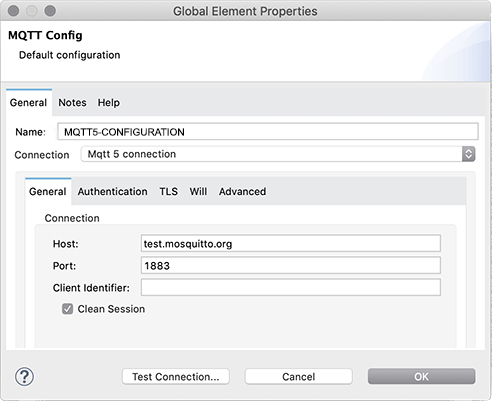
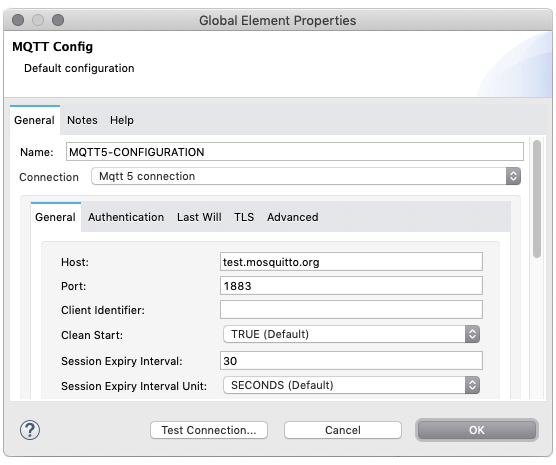
update images and doc for new apis

diff --git a/docs/connection/general.md b/docs/connection/general.md
@@ -20,7 +20,7 @@ MQTT 5
   
   Studio
   ===
-![mqtt5-connection]({{ site.baseurl }}/images/3-connection-mqtt5.png)
+![mqtt5-connection]({{ site.baseurl }}/images/mqtt5-connection.png)
   ====
 
   Code
@@ -28,8 +28,8 @@ MQTT 5
 
 ```xml
 <mqtt:config name="MQTT5">
-  <mqtt:mqtt5-connection host="test.mosquitto.org" port="1883" 
-                         clientId="TestIdentifier" cleanSession="true"/>
+  <mqtt:mqtt5-connection host="test.mosquitto.org" port="1883" clientId="TestIdentifier"
+                         cleanStart="TRUE" sessionExpiryInterval="60"/>
 </mqtt:config>
 ```
 
@@ -45,7 +45,7 @@ MQTT 3
   
   Studio
   ===
-![mqtt3-connection]({{ site.baseurl }}/images/3-connection-mqtt3.png)
+![mqtt3-connection]({{ site.baseurl }}/images/mqtt3-connection.png)
   ====
 
   Code
@@ -54,29 +54,82 @@ MQTT 3
 ```xml
 <mqtt:config name="MQTT3">
   <mqtt:mqtt3-connection host="test.mosquitto.org" port="1883" 
-                         clientId="TestIdentifier" cleanSession="true"/>
+                         clientId="TestIdentifier" cleanSession="TRUE"/>
 </mqtt:config>
 ```
 
   {% endcapture %}
   {% include tabs.html tab_group="module" %}
 
-
 {% endcapture %}
 {% include tabs.html tab_group="mqtt-version" %}
 
 ---
 
-The properties described in this section can be seen in the following table:
+## Host
 
-| Property | Description | Default value | Expression |
-| ----------- | ----------- | ------------- | ------- |
-| `host` | The host name or IP address of the MQTT server. | - | `not supported` |
-| `port` | The port of the MQTT server. | `1883` | `not supported` |
-| `identifier` | The unique identifier of the MQTT client. | connector generates an identifier | `not supported` |
-| `cleanSession` | Determines if the client wants to start a new “clean” session (true) or wants to resume a previous session if available (false). This is called cleanStart in MQTT5. | `true` | `not supported` |
+The host name or IP address of the MQTT server.
 
-Good Practice
-{: .label }
+| Property | Default value | Expression |
+| ----------- | ------------- | ------- |
+| `host` | - | `not supported` |
 
-For connections with `cleanSession = true` it's a good practice to have a separate configuration for subscribers, will avoid problems with fetching previous session queued messages.
+## Port
+
+The port of the MQTT server.
+
+| Property | Default value | Expression |
+| ----------- | ------------- | ------- |
+| `port` | `1883` | `not supported` |
+
+## Identifier
+
+The unique identifier of the MQTT client.
+
+| Property | Default value | Expression |
+| ----------- | ------------- | ------- |
+| `identifier` | connector generates an identifier | `not supported` |
+
+
+{% capture tab_content %}
+
+MQTT 5.0
+===
+
+## Clean Start
+
+If `true` and there is a session associated with the configured `clientId`, the server must resume communication with the client based on the state of the session. If there is no session associated with the `clientId`, the server must create a new session. 
+
+If set to `false` a new session is always created.
+
+| Property | Default value | Expression |
+| ----------- | ------------- | ------- |
+| `cleanStart` | `TRUE` | `not supported` |
+
+It's important to note that if the [sessionExpiryInterval](#session-expiry-interval) property is empty or 0, then sessions are n  ot going to be stored for the client.
+{: .fs-2 }
+
+## Session Expiry Interval
+
+ Defines the period of time that the broker stores the session information of that particular MQTT client. When the session expiry interval is set to 0 or empty, the session information is immediately removed from the broker as soon as the network connection of the client closes. The Session Expiry Interval Unit property qualifies the Connect Timeout attribute
+
+| Property | Default value | Expression |
+| ----------- | ------------- | ------- |
+| `sessionExpiryInterval` | `60` | `not supported` |
+| `sessionExpiryIntervalUnit` | `SECONDS` | `not supported` |
+
+====
+
+MQTT 3.1.1
+===
+
+## Clean Session
+
+Determines if the client wants to start a new “clean” session (true) or wants to resume a previous session if available (false).
+
+| Property | Default value | Expression |
+| ----------- | ------------- | ------- |
+| `cleanSession` | `TRUE` | `not supported` |
+
+{% endcapture %}{% include tabs.html tab_group="mqtt-version" tab_no_header=true %}
+

diff --git a/docs/30_connection.md b/docs/30_connection.md
@@ -46,6 +46,3 @@ In the example above, a configuration named `MQTT5-CONFIGURATION` is declared wi
 In the MQTT connector for each configuration declared, a connection is established and cached so that one specific configuration always gets the same connection. The connection is maintained until the configuration itself is stopped.
 
 This means that if you declare a configuration with a connection and it's referenced in two different operations, the **exact same** instance is going to be used to execute both operations. This is important to know for cases when the user **DON'T** want to share the same resource.
-
-It is a good practice to separate subscription configurations from publish configurations, but if required configurations can be shared without a problem in most scenarios. 
-

diff --git a/docs/operations/publish.md b/docs/operations/publish.md
@@ -169,7 +169,7 @@ The properties supported for the publish command are the following:
 
 ### Message Expiry Interval
 
-The message expiry interval is the time interval (in seconds) the message will be queued for subscribers. If no message expiry interval is provided, then is assumed disabled.
+Defines the period of time __(in seconds)__ that the broker stores the PUBLISH message for any matching subscribers that are not currently connected . When no message expiry interval is set, the broker must store the message for matching subscribers indefinitely. When the `retained=true` option is set on the PUBLISH message, this interval also defines how long a message is retained on a topic.
 
 | Property | Default | Type |
 | -------- | ------- | ---- |

diff --git a/docs/10_quickstart.md b/docs/10_quickstart.md
@@ -74,7 +74,7 @@ Code
 <flow name="OnNewMessage">
     <mqtt:listener config-ref="mosquitto-config">
         <mqtt:subscriptions>
-            <mqtt:subscription topic="test/mule/topic"/>
+            <mqtt:subscription topicFilter="test/mule/topic"/>
         </mqtt:subscriptions>
     </mqtt:listener>
     <logger level="INFO" message="#[payload]"/>
